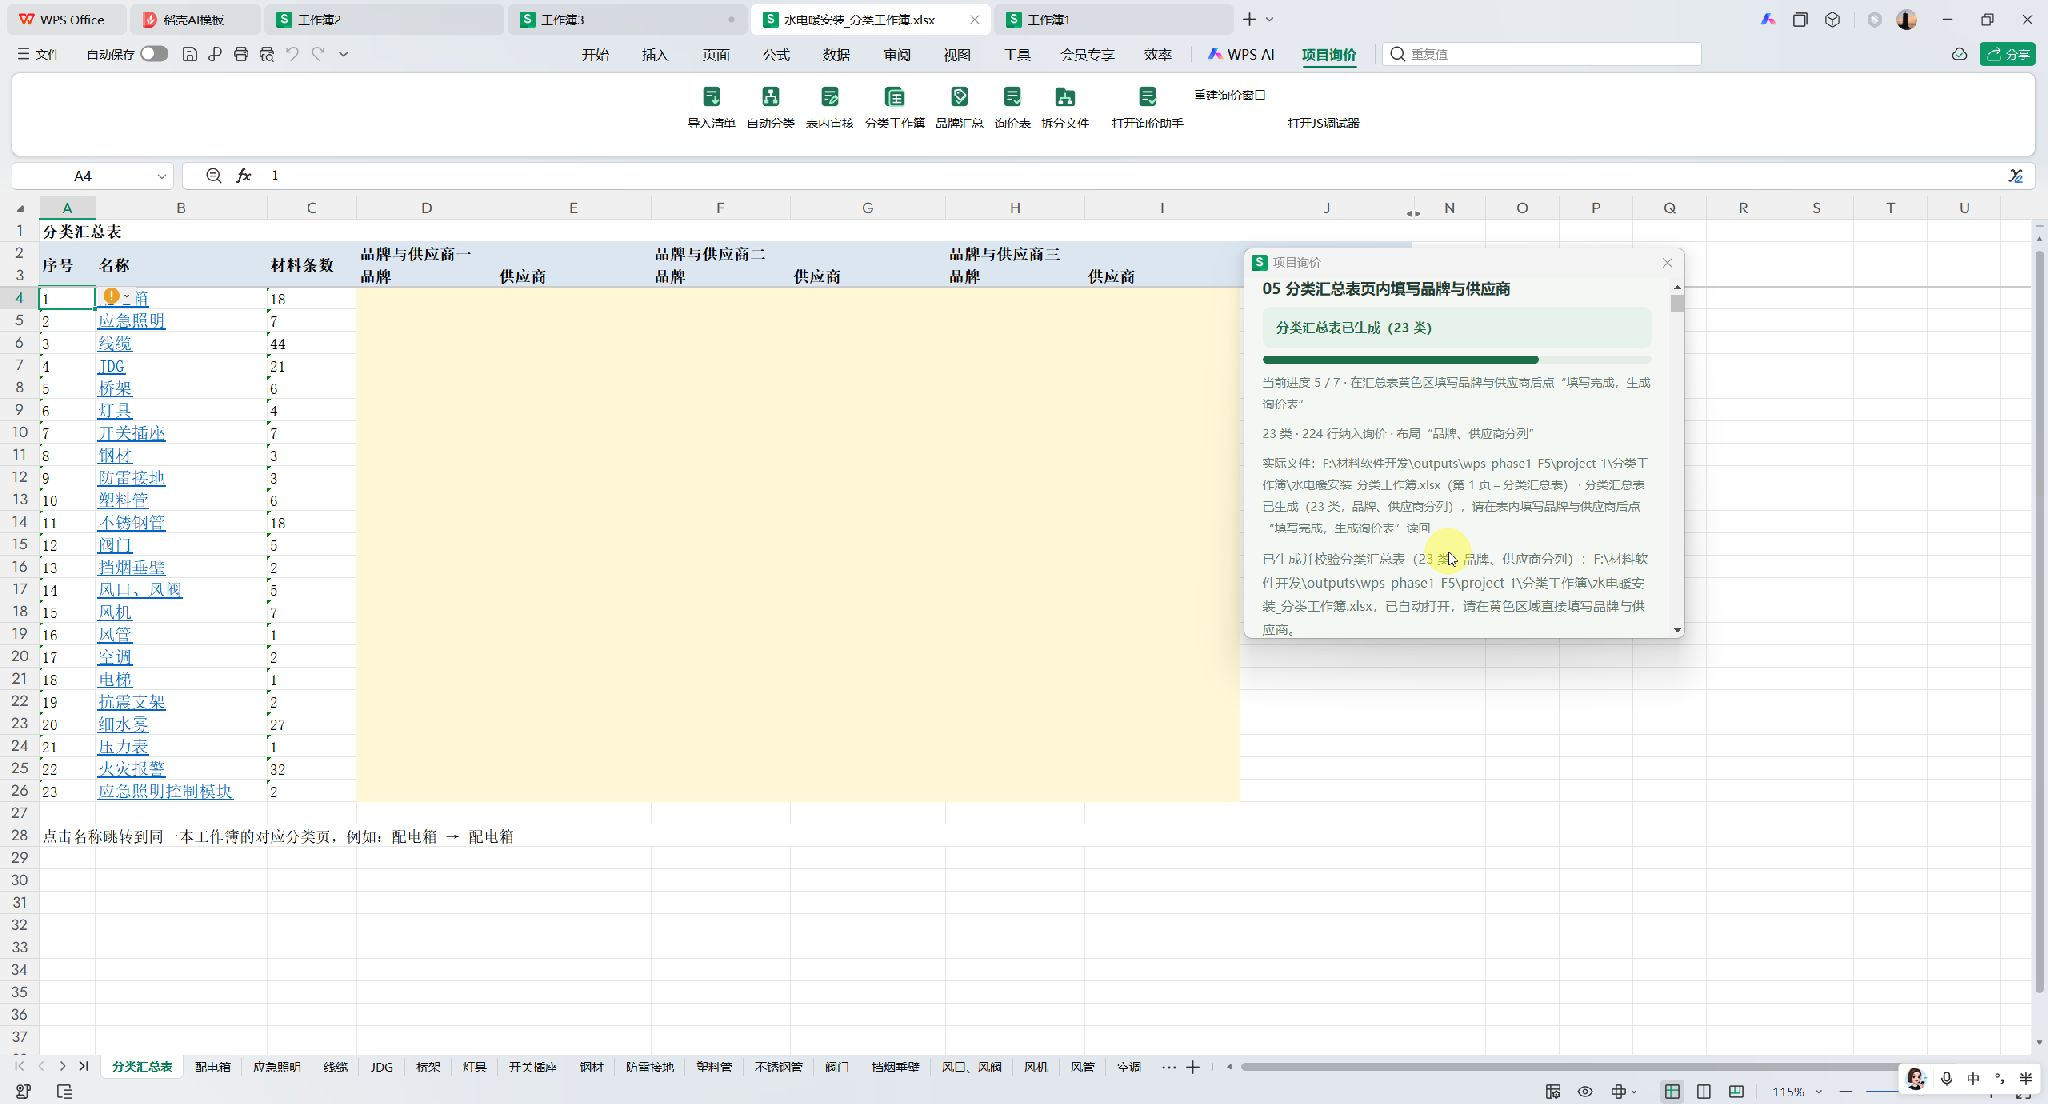
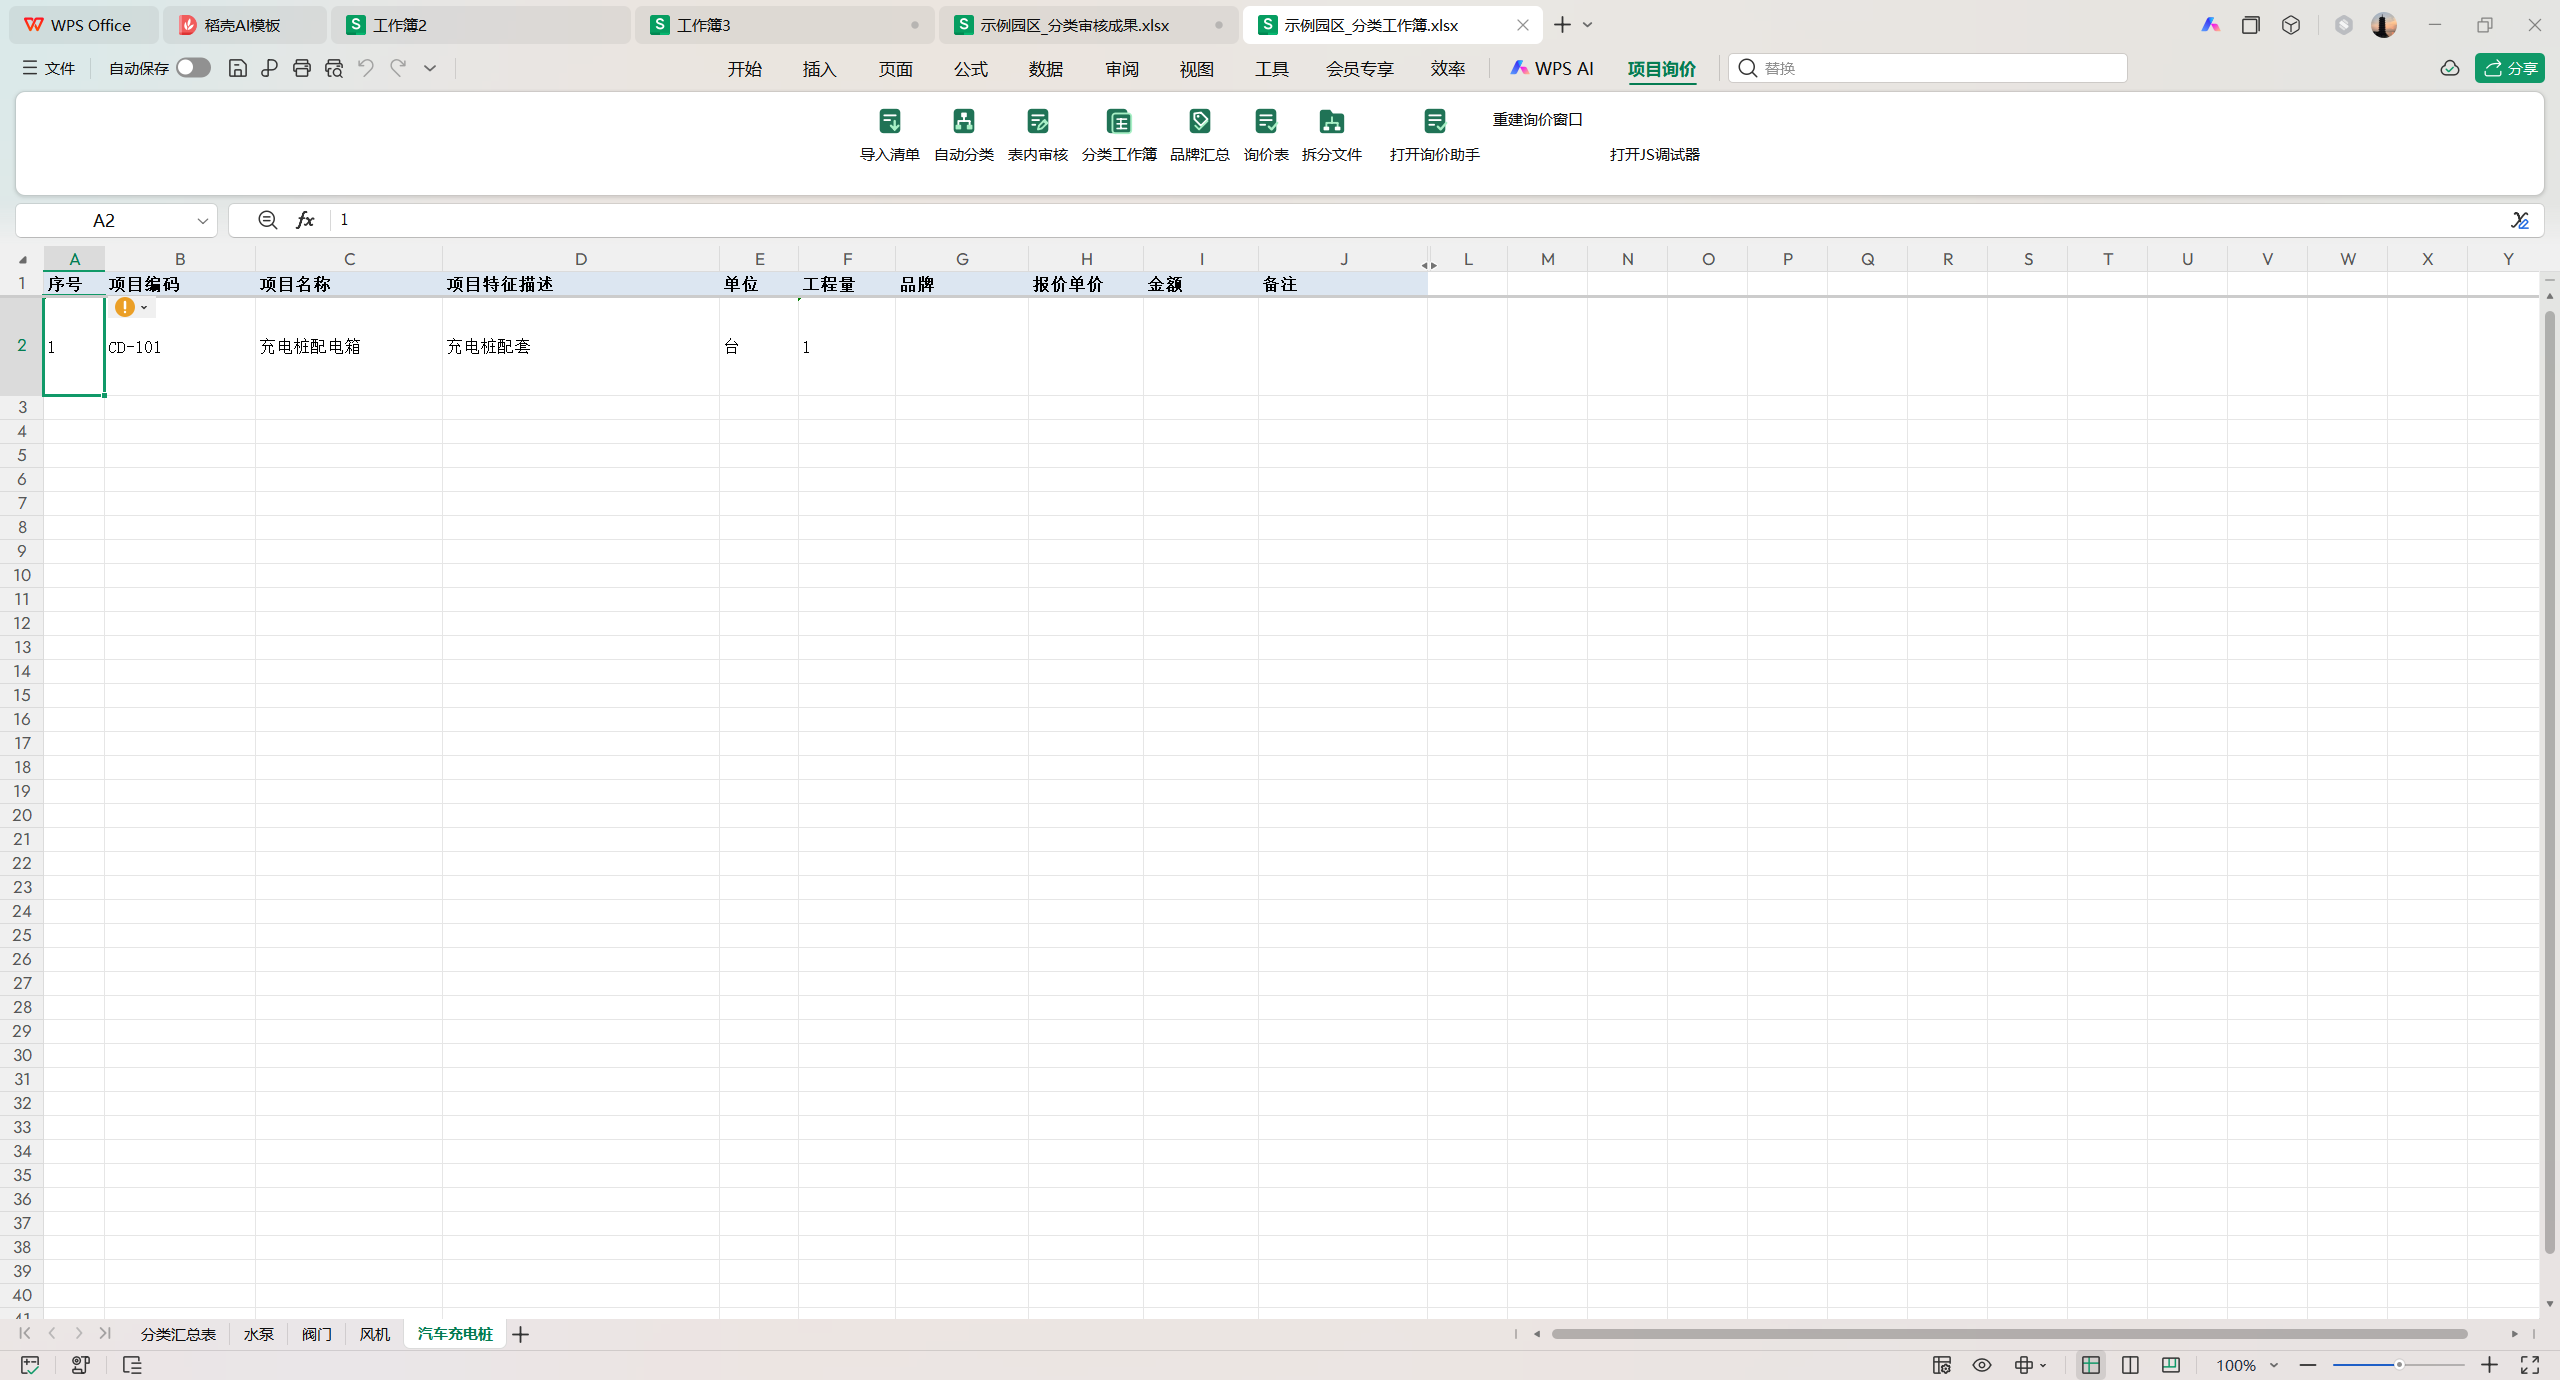
docs(wps): complete F8 user walkthrough and candidate manifest
Record the actual-user synthetic run: 10 to 8 merge, whole-table confirmation, one-book classification workbook, summary fill, header, five-page inquiry workbook, five supplier splits, disk audit and close/reopen recovery. Document the save-location, empty-rule, summary-tab, header-location, native-save-directory, project-name and repaint pitfalls.

diff --git a/docs/wps-user-guide.md b/docs/wps-user-guide.md
@@ -8,7 +8,7 @@
 
 每一步只有真实文件或项目绑定核对通过后才会显示为完成。上游内容改变时，下游会显示“已过期”或重新变为待处理；旧文件保留，不会静默覆盖。分类审核只在成果表内做一次整表确认，品牌和供应商只在分类汇总表内填写，侧栏不逐行审核、不编辑品牌、不做二次品牌确认。
 
-> 截图说明：第1–3步为 2026-10-17 本次真实合成试跑；第4–7步使用 2026-10 已验收的真实 WPS 窗口截图，字段和操作与当前版本一致，仅用于说明界面。所有截图均为合成/虚拟测试数据，不含原始清单、报价、联系人、凭据或本机运行数据。
+> 截图说明：第1–5A步和第7步为 2026-10-17 本次真实合成试跑；第5B（同格布局）和第6步使用 2026-10 已验收的真实 WPS 窗口截图，字段和操作与当前版本一致，仅用于说明界面。所有截图均为合成/虚拟测试数据，不含原始清单、报价、联系人、凭据或本机运行数据。
 
 ## 0. 打开插件
 
@@ -72,10 +72,10 @@
 ## 4. 分类工作簿
 
 1. 整表确认通过后，点“生成分类工作簿”。
-2. 插件会实际生成整本工作簿、重开逐值校验，并按页核对行数；全部通过后才解锁“生成分类汇总表”。
+2. 插件会实际生成整本工作簿、重开逐值校验，并按页核对行数；全部通过后才解锁“生成分类汇总表”。该按钮在第4步面板底部，也可点顶部第5步进入汇总。
 3. 每页固定 10 列：序号、项目编码、项目名称、项目特征描述、单位、工程量、品牌、报价单价、金额、备注。此时品牌、报价单价、金额应为空。
 4. 分类工作簿保留在项目成果目录中；分类页和汇总首页都在同一本工作簿里，不再生成逐类独立文件，也没有单类导出入口。
-5. 重新确认分类会生成新批次，旧批次和旧汇总不会被覆盖。
+5. 分类工作簿的第1个标签就是“分类汇总表”，其后是各分类页；第5步只在这本工作簿的第1页填写。重新确认分类会生成新批次，旧批次和旧汇总不会被覆盖。
 
 ![第5A步：分列填写品牌与供应商](images/wps-user-guide-f8/step-05a-summary-separated.png)
 
@@ -91,19 +91,23 @@
 4. 类别名称是蓝色下划线链接。点击名称会跳到同一本分类工作簿的对应类别页，便于核对材料；它不会打开一个新的独立文件。
 5. 填完、保存后，回询价窗口点“填写完成，生成询价表”。插件读取最新汇总页、校验并保存品牌映射，读回结果会显示有效类别数和预计询价份数。
 
+分类工作簿底部可能有多个标签；填写前先点最左边的“分类汇总表”标签回到第1页，不要在各分类页里填写品牌。品牌与供应商只填在第1页的黄色区域。
+
 两种布局只改变填写形式，不改变业务结果：同一组品牌/供应商、同一生成方式应当得到同样的询价内容。只需要选一种布局填写，不需要两种都填一遍。
 
 ![第5B步：同格填写品牌与供应商](images/wps-user-guide-f8/step-05b-summary-combined.png)
 
 ## 6. 询价表：合成一份或按品牌分别生成
 
-1. 先在“辅助功能 → 询价抬头”填写项目名称、单位名称、材料经办人、联系方式；原公司地址可选。四项必填，模板只保存在本机。
+1. 先在询价窗口底部展开“辅助功能（分类库 / 品牌参考 / 询价抬头 / 项目）”，再进入“询价抬头”填写项目名称、单位名称、材料经办人、联系方式；原公司地址可选。四项必填，模板只保存在本机。
 2. 第 6 步按汇总表选择的方式生成总询价工作簿：
    - “合成一份”：同一张询价表列出本类全部品牌和对应供应商，材料行及工程量只出现一次。
    - “按品牌分别生成”：每组品牌/供应商各一张询价表，每张包含本类完整材料。
 3. 对供应商公开的材料固定 10 列；报价单价和金额留空，不带原价、历史价或内部追溯。
 4. 总询价工作簿可以包含明确标记的内部追溯/处理记录页；第 7 步拆分时只导出询价页，不会把内部页发给供应商。
 5. 点“下一步：拆分询价文件”进入第 7 步。品牌、供应商、生成方式或抬头改变后，旧总询价表和旧拆分文件会显示过期，需要重新生成。
+
+生成时会弹出保存对话框。对话框可能停在“上次使用”的旧目录，请先切换到本项目成果目录（与分类工作簿同一目录）；在“文件名”输入框里手动输入新文件名（例如 `项目名_询价总表_日期.xlsx`），不要点选列表里已有的审核成果表或分类工作簿。已有同名文件时插件会拒绝覆盖，换一个带日期的新名字即可。
 
 ![第6步：询价表](images/wps-user-guide-f8/step-06-inquiry.png)
 
@@ -129,12 +133,15 @@
 
 ## 9. 关闭、重建、恢复与失败续作
 
-- 关闭询价窗口不会删除项目、分类库或已生成文件。关闭前请先保存项目；重新打开后可从“辅助功能 → 项目 → 打开项目”恢复已保存项目，或重新导入同一原件并按提示恢复已保存核对。
+- 关闭询价窗口不会删除项目、分类库或已生成文件。关闭前请先保存项目；重新打开后可从“辅助功能 → 项目 → 打开项目”恢复已保存项目，或重新导入同一原件并按提示恢复已保存核对。项目列表名称可能取自首份清单的文件名，请按项目号和版本识别，不要只按项目名称找。
 - 窗口停止刷新时，先保存核对记录和项目，再点功能区“项目询价 → 重建询价窗口”。重建会清除尚未保存的页面修改，请先保存。
 - 重开项目时，插件会核对审核表、分类工作簿、汇总页、总询价表和拆分回执的真实路径/SHA。文件缺失、外部改写或拆分未完成时，不会显示为已完成。
+- 重开后请从第04步看到第07步逐项核对；如果顶部高亮步骤与实际面板内容短暂不一致，点一下对应的步骤编号刷新即可。本次合成试跑重开后第07步实际恢复为计划5/完成5/失败0/待处理0。
 - 整目录搬移后，用“重新定位项目文件”选择新根目录，插件按内容重新核对后才保存新绑定；不会只按同名文件接续。
 - 拆分失败或中断后，回第 7 步点“重试未完成”；不要删除已完成文件来“重来一遍”。
 - 服务重启后，拆分回执仍按项目和批次保留；待核对项必须通过内容核对才能重新记为成功。
+
+![重开项目后第7步恢复](images/wps-user-guide-f8/step-07-restored.png)
 
 ## 10. 一次试跑应看到什么
 

diff --git a/handoff.md b/handoff.md
@@ -1,6 +1,6 @@
 # WPS询价插件：已批准效果图、执行计划与交接文档
 
-> **2026-10-17 F8交付候选（最新入口）：** 入场HEAD `2507173d1350e0c2c69727da41cc3b3210e4f4a7`，F6/F7已完成。F8已把生产入口`dev/server.cjs`的探针路由/报告接口/诊断注入移出，开发探针改由不进入候选包的`dev/probe-server.cjs`；全量Node **517/517**、Python **10/10**、探针侧栏浏览器检查PASS。候选`0.1.0`/构建`20261017-F8`白名单73文件、隔离安装/资源读取/卸载重装通过，zip与逐文件SHA在本机`outputs/wps-phase1-F8/20261017/`，提交清单见`docs/wps-phase1-release-manifest-20261017.json`。用户说明、安装说明、发布清单按真实窗口更新；实际用户已真实导入10→合并8并在第2步生成审核成果表，随后在“选择成果表保存位置”停顿，说明已补路径步骤；整表确认及后续七步仍待该用户完成，**F8真人出口未完成，不标全部通过**。历史32类迁入与其他WPS版本本次明确排除。源码/清单提交已普通推送，远程`feat/wps-phase1`与本地HEAD均为`3347529`。详见[F8证据](docs/wps-phase1-f8-evidence-20261017.md)。
+> **2026-10-17 F8交付候选（最新入口）：** 入场HEAD `2507173d1350e0c2c69727da41cc3b3210e4f4a7`，F6/F7已完成。F8已把生产入口`dev/server.cjs`的探针路由/报告接口/诊断注入移出，开发探针改由不进入候选包的`dev/probe-server.cjs`；全量Node **517/517**、Python **10/10**、探针侧栏浏览器检查PASS。候选`0.1.0`/构建`20261017-F8`共82个包文件（73个产品/安装/说明文本＋9张真实截图），zip SHA `70faab22…`，隔离安装/资源读取/卸载重装通过；zip与逐文件SHA在本机`outputs/wps-phase1-F8/20261017/`，提交清单见`docs/wps-phase1-release-manifest-20261017.json`。用户说明、安装说明、发布清单按真实窗口更新；**实际用户已完成独立合成试跑**：导入10→合并8→整表确认→分类簿1本/4页→汇总4类/预计5份→总询价5页/0失败→5件拆分→关闭重开后04–07恢复，5件供应商文件逐件审计通过；停顿与修正见F8证据。历史32类迁入与其他WPS版本本次明确排除。**F8出口已具备；正式发布仍由用户明确安排。** 详见[F8证据](docs/wps-phase1-f8-evidence-20261017.md)。
 
 > **2026-10-17 F7完成（最新入口）：** 入场HEAD `4936f8c`，F6已勾R12结案。按F7补齐安装/启动/卸载的服务身份（健康响应绝对脚本路径、创建时间、实际运行代码版本；PID文件只作候选），升级改为同级暂存复制+目录切换，复制/启动失败还原本插件注册/代码并恢复旧服务；DataRoot明确创建并传入`imports/library/projects/headers/splits`。Node全量**515/515**（新增5项），隔离生命周期安装→同版重启→开项目→升级→源文件锁复制失败→`process.exit(1)`启动失败→卸载→重装全部通过：v1→v2代码版本变化并实际返回`f7-v2`，两次失败均退出1且回到v2/旧注册，项目revision1与五目录哨兵保持。WPS构建号`12.1.0.29161`经COM隐藏实例核对（`Workbooks=0`，用户已有WPS进程未变）；本包未改用户真实publish.xml或重启用户WPS，真实浮窗沿用F6。旧版无身份服务会拒绝自动停止、需手动停一次。详见[F7证据](docs/wps-phase1-f7-evidence-20261017.md)。**F7出口齐备；F8未开始，须另开会话。** 入场pane原样保留、不暂存。
 
